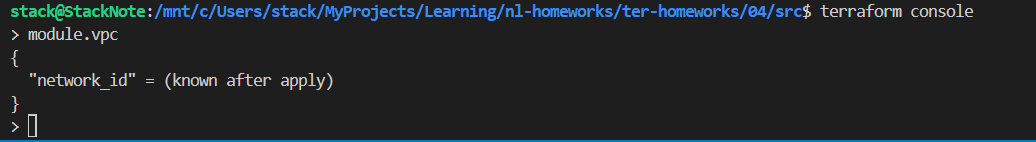
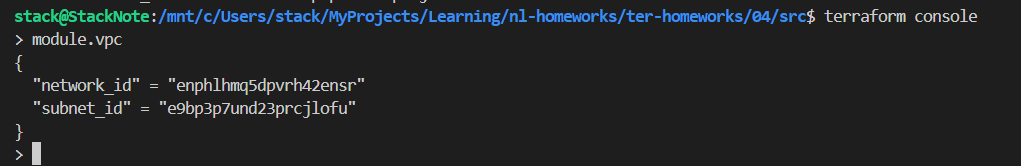
Fix 4-2

diff --git a/ter-homeworks/04/README.md b/ter-homeworks/04/README.md
@@ -15,6 +15,7 @@
 
 ```bash
 terraform init
+
 # Заменить в main.tf
   # network_id     = yandex_vpc_network.develop.id
   network_id = module.vpc.network_id
@@ -22,10 +23,12 @@ terraform init
   subnet_ids = [module.vpc.subnet_id]
 
 terraform apply
+
 terraform console
 > module.vpc
 {
-  "network_id" = (known after apply)
+  "network_id" = "enphlhmq5dpvrh42ensr"
+  "subnet_id" = "e9bp3p7und23prcjlofu"
 }
 >
 ```
